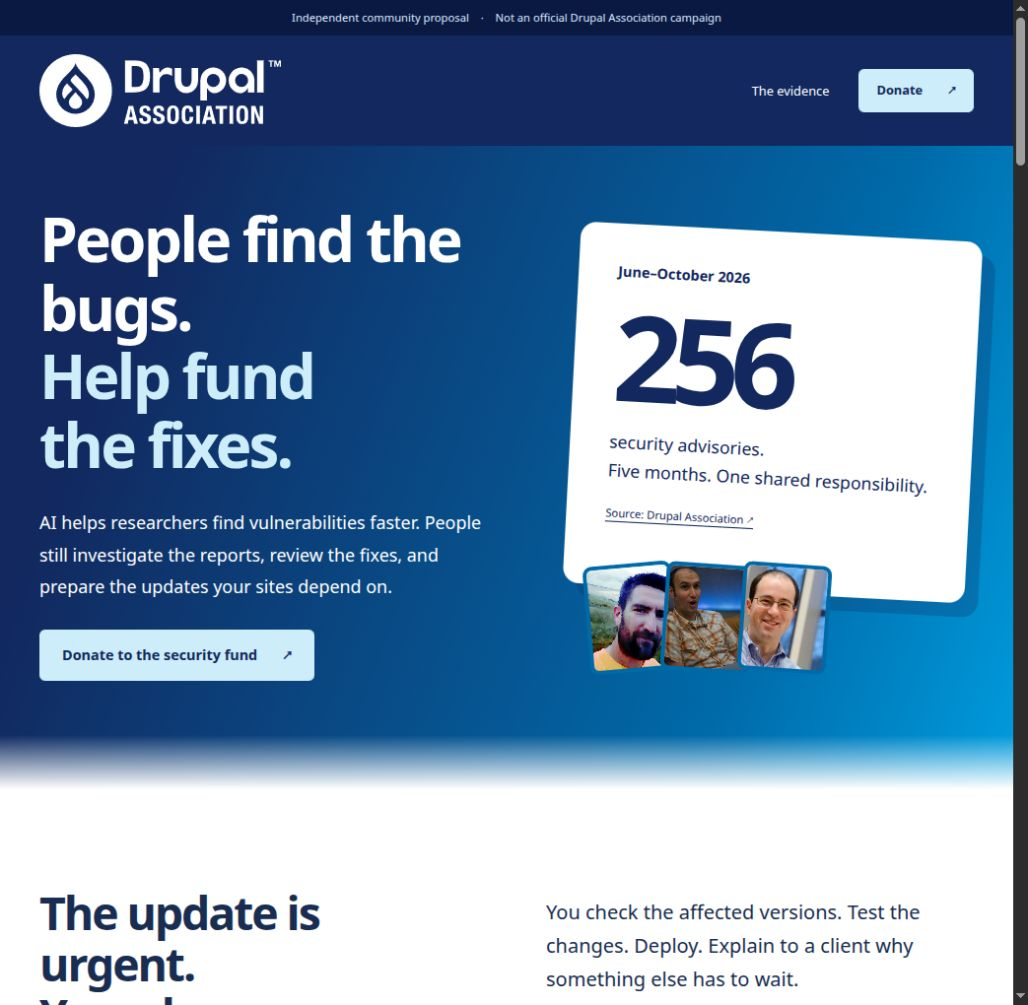
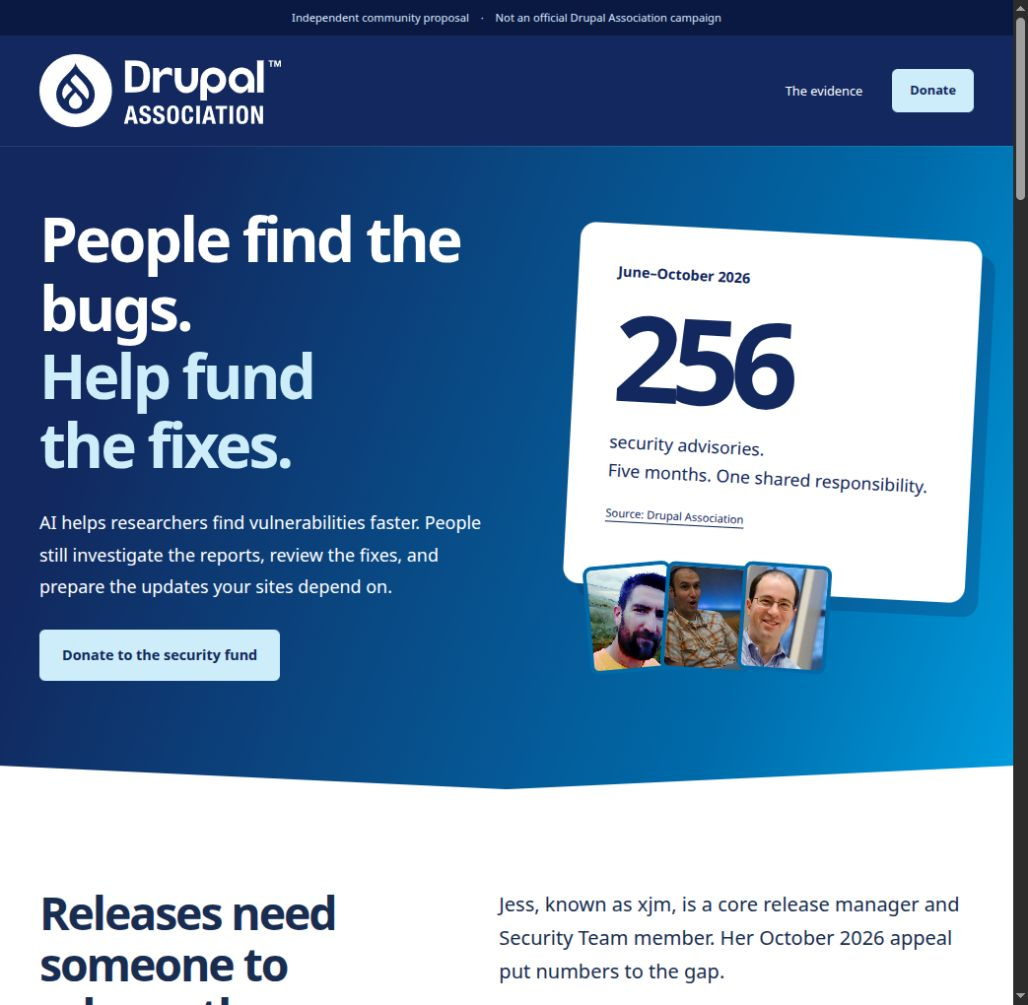
Lead people campaign with xjm and prioritize funding actions

diff --git a/src/components/campaign-page.js b/src/components/campaign-page.js
@@ -1,39 +1,35 @@
 import { layout } from "./layout.js";
 import { renderEvidence, renderResults } from "./evidence.js";
-import { renderPeople, renderXjm } from "./people.js";
+import { renderXjm } from "./people.js";
 import { renderDonation } from "./donation.js";
 import { campaign } from "../content/campaign.js";
 import { metrics } from "../content/security.js";
-const cta = `<a class="button primary" href="${campaign.donationUrl}">Donate to the security fund <span aria-hidden="true">↗</span></a>`;
+const cta = `<a class="button primary" href="${campaign.donationUrl}">Donate to the security fund </a>`;
 function hero(variant) {
   return variant === "evidence"
-    ? `<section class="hero"><div class="hero-copy"><h1>People find the bugs.<br><span>Help fund<br>the fixes.</span></h1><p class="hero-lead">AI helps researchers find vulnerabilities faster. People still investigate the reports, review the fixes, and prepare the updates your sites depend on.</p>${cta}</div><div class="hero-art"><div class="stat-card"><span>June–October 2026</span><strong>${metrics[0].value}</strong><p>security advisories.<br>Five months. One shared responsibility.</p><a href="/sources/#results">Source: Drupal Association ↗</a></div><div class="hero-faces">${["mcdruid", "greggles", "mlhess"].map((p, i) => `<img src="/assets/images/${p}.jpg" width="280" height="280" alt="${["Drew Webber", "Greg Knaddison", "Michael Hess"][i]}" fetchpriority="${i === 0 ? "high" : "auto"}">`).join("")}</div></div></section>`
-    : `<section class="hero people-hero"><div class="hero-copy"><h1>Your next update<br><span>starts with<br>someone.</span></h1><p class="hero-lead">Someone investigates the report. Someone reviews the fix. Someone ships the release. Help sustain the people Drupal depends on.</p>${cta}</div><div class="portrait-mosaic">${["mcdruid", "greggles", "mlhess"].map((p, i) => `<figure><img src="/assets/images/${p}.jpg" width="280" height="280" alt="${["Drew Webber", "Greg Knaddison", "Michael Hess"][i]}" fetchpriority="${i === 0 ? "high" : "auto"}"><figcaption>${["Drew · fixes", "Greg · coordination", "Michael · review"][i]}</figcaption></figure>`).join("")}</div></section>`;
+    ? `<section class="hero"><div class="hero-copy"><h1>People find the bugs.<br><span>Help fund<br>the fixes.</span></h1><p class="hero-lead">AI helps researchers find vulnerabilities faster. People still investigate the reports, review the fixes, and prepare the updates your sites depend on.</p>${cta}</div><div class="hero-art"><div class="stat-card"><span>June–October 2026</span><strong>${metrics[0].value}</strong><p>security advisories.<br>Five months. One shared responsibility.</p><a href="/sources/#results">Source: Drupal Association</a></div><div class="hero-faces">${["mcdruid", "greggles", "mlhess"].map((p, i) => `<img src="/assets/images/${p}.jpg" width="280" height="280" alt="${["Drew Webber", "Greg Knaddison", "Michael Hess"][i]}" fetchpriority="${i === 0 ? "high" : "auto"}">`).join("")}</div></div></section>`
+    : `<section class="hero people-hero"><div class="hero-copy"><h1>Help xjm keep<br><span>Drupal releases<br>moving.</span></h1><p class="hero-lead">Jess, known as xjm, helps turn reviewed fixes into Drupal releases. Help fund the time she needs to keep doing that work.</p><a class="button primary" href="https://www.patreon.com/xjm">Sponsor xjm on Patreon</a></div><div class="portrait-mosaic">${["mcdruid", "greggles", "mlhess"].map((p, i) => `<figure><img src="/assets/images/${p}.jpg" width="280" height="280" alt="${["Drew Webber", "Greg Knaddison", "Michael Hess"][i]}" fetchpriority="${i === 0 ? "high" : "auto"}"><figcaption>${["Drew · fixes", "Greg · coordination", "Michael · review"][i]}</figcaption></figure>`).join("")}</div></section>`;
 }
 function workload() {
-  return `<section class="section workload"><div><h2>The update is urgent.<br>Your day was already full.</h2></div><div><p class="lead">You check the affected versions. Test the changes. Deploy. Explain to a client why something else has to wait.</p><p>The team upstream has a queue too. More reports mean more triage, more reviews, and more releases to coordinate. AI-assisted discovery has made finding existing vulnerabilities faster. It hasn’t removed the work of responding.</p><a class="source-link" href="/sources/#results">The DA’s account of the workload increase ↗</a></div></section>`;
+  return `<section class="section workload"><div><h2>The update is urgent.<br>Your day was already full.</h2></div><div><p class="lead">You check the affected versions. Test the changes. Deploy. Explain to a client why something else has to wait.</p><p>The team upstream has a queue too. More reports mean more triage, more reviews, and more releases to coordinate. AI-assisted discovery has made finding existing vulnerabilities faster. It hasn’t removed the work of responding.</p><a class="source-link" href="/sources/#results">The DA’s account of the workload increase</a></div></section>`;
 }
 function risk() {
-  return `<section class="section risk"><h2>Capacity is already<br>changing the schedule.</h2><div class="risk-grid"><p class="lead">From 2027, most core minor versions receive eight months of overlapping security coverage instead of twelve.</p><div><p>The Security Team’s announcement says AI-driven reports created more work than current funding can sustain, with a risk of slower fixes. The change cuts backport work by 30%. Major versions still receive at least four years of support.</p><p>Funding this work matters. This proposed campaign does not promise to reverse that policy or guarantee a particular release.</p><a class="source-link" href="/sources/#coverage">Read the coverage policy and exceptions ↗</a></div></div></section>`;
+  return `<section class="section risk"><h2>Capacity is already<br>changing the schedule.</h2><div class="risk-grid"><p class="lead">From 2027, most core minor versions receive eight months of overlapping security coverage instead of twelve.</p><div><p>The Security Team’s announcement says AI-driven reports created more work than current funding can sustain, with a risk of slower fixes. The change cuts backport work by 30%. Major versions still receive at least four years of support.</p><p>Funding this work matters. This proposed campaign does not promise to reverse that policy or guarantee a particular release.</p><a class="source-link" href="/sources/#coverage">Read the coverage policy and exceptions</a></div></div></section>`;
 }
 export function campaignPage(variant) {
   const peopleFirst = variant === "people";
   return layout(
     peopleFirst
-      ? "The people behind your next update"
+      ? "Help xjm keep Drupal releases moving"
       : "People find the bugs. Help fund the fixes.",
     hero(variant) +
+      `<div id="xjm">${renderXjm()}</div>` +
+      renderDonation(campaign) +
       workload() +
-      (peopleFirst
-        ? renderPeople() +
-          `<div id="xjm">${renderXjm()}</div>` +
-          renderEvidence()
-        : renderEvidence() +
-          renderPeople() +
-          `<div id="xjm">${renderXjm()}</div>`) +
+      renderEvidence() +
       renderResults() +
       risk() +
-      renderDonation(campaign),
+      `<div class="team-link"><a href="https://www.drupal.org/drupal-security-team/security-team-members">Meet all Drupal Security Team members</a></div>`,
     variant,
   );
 }

diff --git a/src/components/evidence.js b/src/components/evidence.js
@@ -6,8 +6,8 @@ export function renderEvidence(
   metrics = defaultMetrics,
   monthlyAdvisories = defaultMonthly,
 ) {
-  return `<section class="section evidence" id="evidence"><div class="section-heading"><h2>Discovery got faster.<br>The work didn’t disappear.</h2><p>The Association attributes the surge to AI-assisted discovery of existing bugs and increased disclosure capacity. Every valid finding still needs a human response.</p></div><div class="evidence-grid"><div class="big-fact"><strong>${metrics[0].value}</strong><h3>advisories in five months.</h3><p>Drupal published more security advisories in June–October 2026 than in the preceding 30 months combined: ${metrics[1].value}.</p><a class="source-link" href="/sources/#results">DA report · October 29, 2026 ↗</a></div><figure class="chart"><figcaption>Security advisories published<br><span>Selected months in 2026 · core + contrib</span></figcaption><div class="bars" aria-hidden="true">${monthlyAdvisories.map((m) => `<div class="bar-column"><b>${m.value}</b><div class="bar" style="--bar:${(m.value / 106) * 100}%"></div><span>${m.month}</span></div>`).join("")}</div><table><caption>Selected monthly advisory counts; missing months are not interpolated</caption><thead><tr><th scope="col">Month</th><th scope="col">Advisories</th></tr></thead><tbody>${monthlyAdvisories.map((m) => `<tr><th scope="row">${m.month} 2026</th><td>${m.value}</td></tr>`).join("")}</tbody></table><p class="fine">Counts measure published advisories, not a change in Drupal’s underlying code security.</p></figure></div></section>`;
+  return `<section class="section evidence" id="evidence"><div class="section-heading"><h2>Discovery got faster.<br>The work didn’t disappear.</h2><p>The Association attributes the surge to AI-assisted discovery of existing bugs and increased disclosure capacity. Every valid finding still needs a human response.</p></div><div class="evidence-grid"><div class="big-fact"><strong>${metrics[0].value}</strong><h3>advisories in five months.</h3><p>Drupal published more security advisories in June–October 2026 than in the preceding 30 months combined: ${metrics[1].value}.</p><a class="source-link" href="/sources/#results">DA report · October 29, 2026</a></div><figure class="chart"><figcaption>Security advisories published<br><span>Selected months in 2026 · core + contrib</span></figcaption><div class="bars" aria-hidden="true">${monthlyAdvisories.map((m) => `<div class="bar-column"><b>${m.value}</b><div class="bar" style="--bar:${(m.value / 106) * 100}%"></div><span>${m.month}</span></div>`).join("")}</div><table><caption>Selected monthly advisory counts; missing months are not interpolated</caption><thead><tr><th scope="col">Month</th><th scope="col">Advisories</th></tr></thead><tbody>${monthlyAdvisories.map((m) => `<tr><th scope="row">${m.month} 2026</th><td>${m.value}</td></tr>`).join("")}</tbody></table><p class="fine">Counts measure published advisories, not a change in Drupal’s underlying code security.</p></figure></div></section>`;
 }
 export function renderResults(metrics = defaultMetrics) {
-  return `<section class="section results"><div class="section-heading"><h2>Support made room<br>for the response.</h2></div><div class="result-grid"><article><strong>${metrics[2].value} / ${metrics[0].value}</strong><h3>Advisories with funded-team participation</h3><p>SEIR team members participated in ${Math.round((metrics[2].value / metrics[0].value) * 100)}% of advisories published in June–October 2026, alongside Drupal’s volunteers.</p></article><article><strong>203</strong><h3>Advisories coordinated by Greg</h3><p>Greg Knaddison’s credited coordination work in June–October 2026, compared with 31 in the same months of 2025.</p></article><article><strong>10</strong><h3>Security issues resolved in six weeks</h3><p>The initiative exceeded its whole-grant commitment of eight resolved issues in its first six weeks.</p></article></div><a class="source-link" href="/sources/#results">Read the Association’s results and attribution ↗</a></section>`;
+  return `<section class="section results"><div class="section-heading"><h2>Support made room<br>for the response.</h2></div><div class="result-grid"><article><strong>${metrics[2].value} / ${metrics[0].value}</strong><h3>Advisories with funded-team participation</h3><p>SEIR team members participated in ${Math.round((metrics[2].value / metrics[0].value) * 100)}% of advisories published in June–October 2026, alongside Drupal’s volunteers.</p></article><article><strong>203</strong><h3>Advisories coordinated by Greg</h3><p>Greg Knaddison’s credited coordination work in June–October 2026, compared with 31 in the same months of 2025.</p></article><article><strong>10</strong><h3>Security issues resolved in six weeks</h3><p>The initiative exceeded its whole-grant commitment of eight resolved issues in its first six weeks.</p></article></div><a class="source-link" href="/sources/#results">Read the Association’s results and attribution</a></section>`;
 }

diff --git a/src/components/people.js b/src/components/people.js
@@ -1,8 +1,8 @@
 import roster from "../content/team-roster.json" with { type: "json" };
 import { escape as e } from "./html.js";
 export function renderPeople(members = roster.members) {
-  return `<section class="section team" id="team"><div class="section-heading"><h2>A team behind<br>every update.</h2><p>The work is shared across Drupal’s Security Team. These are all the members currently listed in the official active roster, checked November 25, 2026.</p></div><ul class="team-roster" role="list">${members.map((p) => `<li><a href="${e(p.profileUrl)}">${e(p.name)}</a>${p.handle && p.handle !== p.name ? `<span>${e(p.handle)}</span>` : ""}${p.role ? `<p>${e(p.role)}</p>` : ""}</li>`).join("")}</ul><div class="provisional-team"><h3>Provisional members</h3><ul role="list">${roster.provisional.map((p) => `<li><a href="${e(p.profileUrl)}">${e(p.name)}</a></li>`).join("")}</ul></div><p class="team-note"><a href="${e(roster.sourceUrl)}">Official team roster and membership details ↗</a></p></section>`;
+  return `<section class="section team" id="team"><div class="section-heading"><h2>A team behind<br>every update.</h2><p>The work is shared across Drupal’s Security Team. These are all the members currently listed in the official active roster, checked November 25, 2026.</p></div><ul class="team-roster" role="list">${members.map((p) => `<li><a href="${e(p.profileUrl)}">${e(p.name)}</a>${p.handle && p.handle !== p.name ? `<span>${e(p.handle)}</span>` : ""}${p.role ? `<p>${e(p.role)}</p>` : ""}</li>`).join("")}</ul><div class="provisional-team"><h3>Provisional members</h3><ul role="list">${roster.provisional.map((p) => `<li><a href="${e(p.profileUrl)}">${e(p.name)}</a></li>`).join("")}</ul></div><p class="team-note"><a href="${e(roster.sourceUrl)}">Official team roster and membership details</a></p></section>`;
 }
 export function renderXjm() {
-  return `<section class="section xjm-story"><div class="story-label"><span class="story-mark" aria-hidden="true">↗</span></div><div><h2>Releases need<br>someone to release them.</h2><p class="lead">Jess, known as xjm, is a core release manager and Security Team member. Her October 2026 appeal put numbers to the gap.</p><div class="hours"><div><strong>40</strong><span>funded hours / week<br>in 2022</span></div><span aria-hidden="true">→</span><div><strong>8</strong><span>funded hours / week<br>reported October 28, 2026</span></div></div><p>She warned that without more funding for 2027, she might leave funded open-source contribution work. Vardot subsequently announced sponsorship in November; these October hours are historical, not a current funding total.</p><a class="source-link" href="/sources/#xjm">Read xjm’s appeal and the later sponsorship update ↗</a><div class="direct-support"><h3>Help fund xjm’s contribution time.</h3><p>Her Patreon offers another way to support her work. This goes to xjm through Patreon, separately from the Drupal Association security fund.</p><a class="button navy" href="https://www.patreon.com/xjm">Sponsor xjm on Patreon ↗</a></div></div></section>`;
+  return `<section class="section xjm-story"><div><h2>Releases need<br>someone to release them.</h2></div><div><p class="lead">Jess, known as xjm, is a core release manager and Security Team member. Her October 2026 appeal put numbers to the gap.</p><div class="hours"><div><strong>40</strong><span>funded hours / week<br>in 2022</span></div><span aria-hidden="true">→</span><div><strong>8</strong><span>funded hours / week<br>reported October 28, 2026</span></div></div><p>She warned that without more funding for 2027, she might leave funded open-source contribution work. Vardot subsequently announced sponsorship in November; these October hours are historical, not a current funding total.</p><a class="source-link" href="/sources/#xjm">Read xjm’s appeal and the later sponsorship update</a><div class="direct-support"><h3>Help fund xjm’s contribution time.</h3><p>Her Patreon offers another way to support her work. This goes to xjm through Patreon, separately from the Drupal Association security fund.</p><a class="button navy" href="https://www.patreon.com/xjm">Sponsor xjm on Patreon</a></div></div></section>`;
 }

diff --git a/src/components/layout.js b/src/components/layout.js
@@ -1,5 +1,5 @@
 import { escape as e } from "./html.js";
 import { campaign } from "../content/campaign.js";
 export function layout(title, content, variant = "review") {
-  return `<!doctype html><html lang="en"><head><meta charset="utf-8"><meta name="viewport" content="width=device-width, initial-scale=1"><title>${e(title)} | Drupal security concepts</title><meta name="description" content="The people, evidence, and funding behind Drupal security updates. An independent community proposal."><meta name="robots" content="noindex"><link rel="stylesheet" href="/assets/styles.css"><link rel="preload" as="font" type="font/woff2" href="/assets/fonts/NotoSans-Regular.woff2" crossorigin><script type="module" src="/assets/countdown.js"></script></head><body data-variant="${variant}"><a class="skip-link" href="#main">Skip to content</a><div class="concept-notice">Independent community proposal <span>·</span> Not an official Drupal Association campaign</div><header class="site-header"><a class="association-logo" href="https://www.drupal.org/association"><img src="/assets/images/drupal-association-logo-white.svg" width="729" height="219" alt="Drupal Association"></a><nav aria-label="Campaign"><a href="/sources/">The evidence</a><a class="button small" href="${e(campaign.donationUrl)}">Donate <span aria-hidden="true">↗</span></a></nav></header><main id="main" tabindex="-1">${content}</main><footer class="site-footer"><div><a class="wordmark" href="/">Drupal security</a><p>Built by a community member.<br>For the people who keep Drupal moving.</p></div><div><a href="/sources/">Sources & image credits</a><a href="https://www.drupal.org/security">Official security advisories ↗</a></div><p class="fine">Drupal is a registered trademark of Dries Buytaert. This independent proposal is not endorsed by the people pictured or the Drupal Association. No payment or personal data is collected here.</p></footer></body></html>`;
+  return `<!doctype html><html lang="en"><head><meta charset="utf-8"><meta name="viewport" content="width=device-width, initial-scale=1"><title>${e(title)} | Drupal security concepts</title><meta name="description" content="The people, evidence, and funding behind Drupal security updates. An independent community proposal."><meta name="robots" content="noindex"><link rel="stylesheet" href="/assets/styles.css"><link rel="preload" as="font" type="font/woff2" href="/assets/fonts/NotoSans-Regular.woff2" crossorigin><script type="module" src="/assets/countdown.js"></script></head><body data-variant="${variant}"><a class="skip-link" href="#main">Skip to content</a><div class="concept-notice">Independent community proposal <span>·</span> Not an official Drupal Association campaign</div><header class="site-header"><a class="association-logo" href="https://www.drupal.org/association"><img src="/assets/images/drupal-association-logo-white.svg" width="729" height="219" alt="Drupal Association"></a><nav aria-label="Campaign"><a href="/sources/">The evidence</a><a class="button small" href="${e(variant === "people" ? "https://www.patreon.com/xjm" : campaign.donationUrl)}">${variant === "people" ? "Sponsor xjm" : "Donate"} </a></nav></header><main id="main" tabindex="-1">${content}</main><footer class="site-footer"><div><a class="wordmark" href="/">Drupal security</a><p>Built by a community member.<br>For the people who keep Drupal moving.</p></div><div><a href="/sources/">Sources & image credits</a><a href="https://www.drupal.org/security">Official security advisories</a></div><p class="fine">Drupal is a registered trademark of Dries Buytaert. This independent proposal is not endorsed by the people pictured or the Drupal Association. No payment or personal data is collected here.</p></footer></body></html>`;
 }

diff --git a/src/components/donation.js b/src/components/donation.js
@@ -6,5 +6,5 @@ export function renderDonation(campaign, nowEpochMs = Date.now()) {
   const progress = p?.enabled
     ? `<div class="verified-progress"><p>${p.current.toLocaleString("en-US")} of ${p.goal.toLocaleString("en-US")} ${e(p.units)}</p><progress value="${Math.min(p.current, p.goal)}" max="${p.goal}" aria-label="Verified campaign progress"></progress><a href="${e(p.sourceUrl)}">Progress source</a><p>Updated <time datetime="${e(p.updatedAt)}">${e(p.updatedAt)}</time></p></div>`
     : "";
-  return `<section class="donation-panel" id="support"><div><h2>Free software.<br>Essential work.</h2><p>Your contribution supports the Drupal Association security fund. Its published terms restrict contributions, less administrative fees, to security programs.</p><a class="button primary" href="${e(campaign.donationUrl)}">Support Drupal security <span aria-hidden="true">↗</span></a><p class="fine">You’ll continue to the Association’s Donorbox checkout.</p><a class="text-link" href="https://www.drupal.org/security-team/donate">Read the fund’s terms ↗</a></div><div class="deadline-panel">${progress}<p class="tag">Proposed campaign</p><p class="deadline-label">Proposed deadline</p><time datetime="${e(campaign.deadline)}">December 31, 2026 · 23:59:59 UTC</time>${state.expired ? '<p class="expired">This proposed campaign deadline has passed. Contributions remain available through ongoing support.</p>' : `<div data-countdown data-deadline="${e(campaign.deadline)}" aria-live="off"><p class="countdown-fallback">The fixed deadline above remains available without a live countdown.</p></div><p data-expiry-status role="status"></p>`}<p class="fine">Illustrative fundraising deadline. No match, donor target, or release commitment has been announced for this concept.</p></div></section>`;
+  return `<section class="donation-panel" id="support"><div><h2>Free software.<br>Essential work.</h2><p>Your contribution supports the Drupal Association security fund. Its published terms restrict contributions, less administrative fees, to security programs.</p><a class="button primary" href="${e(campaign.donationUrl)}">Support Drupal security </a><p class="fine">You’ll continue to the Association’s Donorbox checkout.</p><a class="text-link" href="https://www.drupal.org/security-team/donate">Read the fund’s terms</a></div><div class="deadline-panel">${progress}<p class="tag">Proposed campaign</p><p class="deadline-label">Proposed deadline</p><time datetime="${e(campaign.deadline)}">December 31, 2026 · 23:59:59 UTC</time>${state.expired ? '<p class="expired">This proposed campaign deadline has passed. Contributions remain available through ongoing support.</p>' : `<div data-countdown data-deadline="${e(campaign.deadline)}" aria-live="off"><p class="countdown-fallback">The fixed deadline above remains available without a live countdown.</p></div><p data-expiry-status role="status"></p>`}<p class="fine">Illustrative fundraising deadline. No match, donor target, or release commitment has been announced for this concept.</p></div></section>`;
 }

diff --git a/src/sources.11ty.js b/src/sources.11ty.js
@@ -13,7 +13,7 @@ export default class {
       )
         .map(
           ([id, s]) =>
-            `<article id="${id}"><h2><a href="${s.url}">${s.title} ↗</a></h2><p>${s.scope}</p><p class="fine">${s.publishedAt ? `Published ${s.publishedAt} · ` : ""}Checked ${s.verifiedAt}</p></article>`,
+            `<article id="${id}"><h2><a href="${s.url}">${s.title}</a></h2><p>${s.scope}</p><p class="fine">${s.publishedAt ? `Published ${s.publishedAt} · ` : ""}Checked ${s.verifiedAt}</p></article>`,
         )
         .join(
           "",
@@ -25,7 +25,7 @@ export default class {
         )
         .join(
           "",
-        )}</ul><h2>Typography and visual reference</h2><p>Palette and layout direction derived from new.drupal.org. Noto Sans is distributed under the <a href="/assets/fonts/OFL.txt">SIL Open Font License</a>. The original site uses ZT Gatha headings; this concept uses Noto Sans throughout. The unmodified Drupal Association logo comes from its official website. Its use here does not imply endorsement.</p><h2>What is illustrative?</h2><p>December 31, 2026 at 23:59:59 UTC is a proposed campaign deadline. No campaign total, donor count, target, matching sponsor, merchandise offer, or deadline-dependent funding outcome is claimed.</p><h2>Checkout verification</h2><p>The official security support page links to <a href="https://donorbox.org/drupal-security">the security-fund Donorbox page</a>. Its rendered description discusses support for the Security Team. Search-engine cached text still mentions Drupal 7. Confirm the final checkout wording with the Association before public campaign use. Donation processing and receipts belong to the recipient platform.</p><a class="button navy" href="/security/">Support Drupal security →</a></section>`,
+        )}</ul><h2>Typography and visual reference</h2><p>Palette and layout direction derived from new.drupal.org. Noto Sans is distributed under the <a href="/assets/fonts/OFL.txt">SIL Open Font License</a>. The original site uses ZT Gatha headings; this concept uses Noto Sans throughout. The unmodified Drupal Association logo comes from its official website. Its use here does not imply endorsement.</p><h2>What is illustrative?</h2><p>December 31, 2026 at 23:59:59 UTC is a proposed campaign deadline. No campaign total, donor count, target, matching sponsor, merchandise offer, or deadline-dependent funding outcome is claimed.</p><h2>Checkout verification</h2><p>The official security support page links to <a href="https://donorbox.org/drupal-security">the security-fund Donorbox page</a>. Its rendered description discusses support for the Security Team. Search-engine cached text still mentions Drupal 7. Confirm the final checkout wording with the Association before public campaign use. Donation processing and receipts belong to the recipient platform.</p><a class="button navy" href="/security/">Support Drupal security</a></section>`,
       "sources",
     );
   }

diff --git a/src/assets/styles.css b/src/assets/styles.css
@@ -1055,9 +1055,19 @@ details > p {
   color: var(--navy);
 }
 .hero {
-  background:
-    linear-gradient(to bottom, transparent calc(100% - 55px), white),
-    linear-gradient(110deg, var(--navy) 14%, #006aa9 74%, var(--blue));
+  background: linear-gradient(
+    110deg,
+    var(--navy) 14%,
+    #006aa9 74%,
+    var(--blue)
+  );
+  clip-path: polygon(
+    0 0,
+    100% 0,
+    100% calc(100% - 24px),
+    50% 100%,
+    0 calc(100% - 24px)
+  );
   padding-top: 60px;
   padding-bottom: 110px;
 }
@@ -1140,5 +1150,37 @@ details > p {
   }
   .site-header nav {
     gap: 0;
+  }
+}
+
+/* Keep the campaign hand-off sharp, with a shallow downward point. */
+.xjm-story {
+  grid-template-columns: 1fr 1.2fr;
+  gap: 65px;
+}
+.xjm-story .lead {
+  margin-top: 0;
+}
+.team-link {
+  max-width: var(--max);
+  margin: auto;
+  padding: 0 40px 65px;
+}
+@media (max-width: 700px) {
+  .xjm-story {
+    grid-template-columns: 1fr;
+    gap: 28px;
+  }
+  .team-link {
+    padding-inline: 24px;
+  }
+  .hero {
+    clip-path: polygon(
+      0 0,
+      100% 0,
+      100% calc(100% - 14px),
+      50% 100%,
+      0 calc(100% - 14px)
+    );
   }
 }

diff --git a/docs/verification.md b/docs/verification.md
@@ -62,3 +62,9 @@ Text-only web retrieval cannot resolve the live-versus-cached checkout wording d
 ## Design revision
 
 Preserved the three overlapping portraits beneath the hero statistic. Removed uppercase section labels, scrolling prompts, the small people tagline, collapsed content, and public variant navigation. The main CTA goes directly to the security fund. Revised the headline and introduction to credit people with finding and responding to vulnerabilities. Added all 29 active and six provisional members from the live official roster checked November 25, and replaced the invented logo with the official Association asset. The root route now renders the main campaign page.
+
+## People-page follow-up
+
+The people hero now names xjm and links directly to her Patreon, without using her image. Both campaign pages place the xjm funding story immediately after the hero, then the countdown and fund donation section, followed by the workload and evidence. The full roster is linked rather than displayed. Removed diagonal arrow decorations from all pages and replaced the hero fade with a sharp, shallow V edge. The original three overlapping portraits on the security page remain unchanged.
+
+Eight tests, build, and generated-site checks passed. At a 320 CSS pixel viewport the people page had no horizontal overflow; axe reported zero violations across WCAG 2 A/AA and 2.1 AA tags. Viewport override was reset.

diff --git a/README.md b/README.md
@@ -41,7 +41,7 @@ The main donation link goes to the official DA security-fund checkout. xjm's Pat
 
 ## Images and attribution
 
-The three featured photographs use original files from their official Drupal.org accounts. No image of xjm is used. All active and provisional members are named in a visible roster, checked November 25, 2026. The header uses the official Drupal Association logo. Source URLs and reuse notes are recorded in `src/content/portrait-provenance.json`. Credits and licensing links appear on `/sources/`. Noto Sans font files include their SIL Open Font License. Temporal's locally served fallback includes its MIT license.
+The three featured photographs use original files from their official Drupal.org accounts. No image of xjm is used. The official full team roster is linked from both campaign pages. The header uses the official Drupal Association logo. Source URLs and reuse notes are recorded in `src/content/portrait-provenance.json`. Credits and licensing links appear on `/sources/`. Noto Sans font files include their SIL Open Font License. Temporal's locally served fallback includes its MIT license.
 
 The illustration of a droplet is an original geometric drawing. Drupal is a trademark of Dries Buytaert. These pages do not imply endorsement by the Association or the people featured.
 
